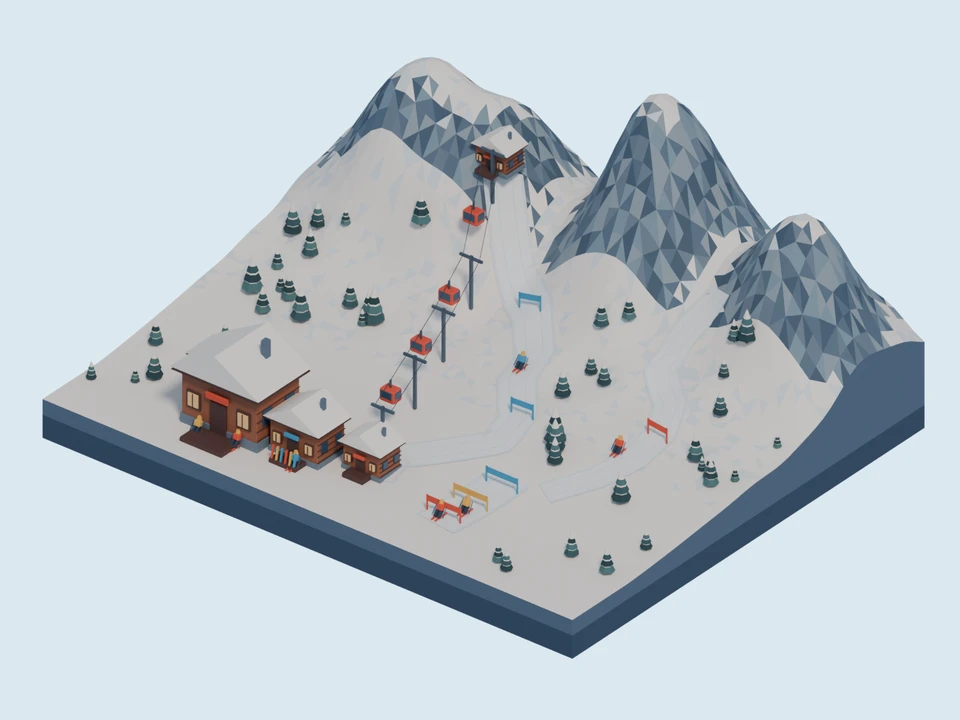
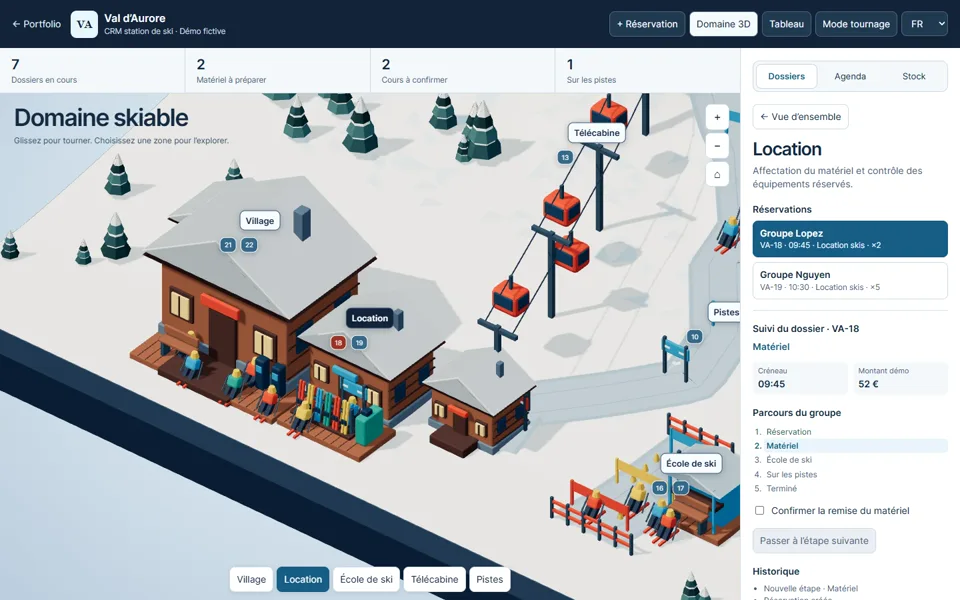
Actualiser le lien et le visuel de Val d-Aurore

diff --git a/index.html b/index.html
@@ -187,12 +187,12 @@
       <ul class="home-crm-demos">
         <li><a href="https://odilonbuisson.com/demos/crm-carrosserie/index.html">Carrosserie <span aria-hidden="true">↗</span></a></li>
         <li><a href="https://odilonbuisson.com/demos/crm-salle-de-sport/index.html">Salle de sport <span aria-hidden="true">↗</span></a></li>
-        <li><a href="https://odilonbuisson.com/demos/crm-station-ski/index.html">Station de ski <span aria-hidden="true">↗</span></a></li>
+        <li><a href="https://val-d-aurore.vercel.app/">Station de ski <span aria-hidden="true">↗</span></a></li>
       </ul>
       <a class="home-text-link" href="https://odilonbuisson.com/projets/crm-3d-interactifs">Voir l’étude sur le portfolio d’Odilon Buisson <span aria-hidden="true">↗</span></a>
     </div>
     <figure class="home-crm-preview">
-      <img src="/images/home/val-aurore.webp" width="960" height="720" alt="Aperçu du CRM 3D de la station Val d’Aurore et de ses pistes" loading="lazy" />
+      <img src="/images/home/val-aurore.webp" width="960" height="600" alt="Aperçu du CRM 3D de la station Val d’Aurore et de ses pistes" loading="lazy" />
       <figcaption>Démo Val d’Aurore, station de ski modélisée dans Blender.</figcaption>
     </figure>
   </div>

diff --git a/zh/index.html b/zh/index.html
@@ -189,12 +189,12 @@
       <ul class="home-crm-demos">
         <li><a href="https://odilonbuisson.com/demos/crm-carrosserie/en.html">汽车维修 <span aria-hidden="true">↗</span></a></li>
         <li><a href="https://odilonbuisson.com/demos/crm-salle-de-sport/en.html">健身房 <span aria-hidden="true">↗</span></a></li>
-        <li><a href="https://odilonbuisson.com/demos/crm-station-ski/index.html?lang=zh">滑雪场 <span aria-hidden="true">↗</span></a></li>
+        <li><a href="https://val-d-aurore.vercel.app/?lang=zh">滑雪场 <span aria-hidden="true">↗</span></a></li>
       </ul>
       <a class="home-text-link" href="https://odilonbuisson.com/zh/projects/crm-3d-interactifs">在 Odilon Buisson 的作品集中阅读案例 <span aria-hidden="true">↗</span></a>
     </div>
     <figure class="home-crm-preview">
-      <img src="/images/home/val-aurore.webp" width="960" height="720" alt="Val d’Aurore 滑雪场的 3D 客户管理系统和雪道预览" loading="lazy" />
+      <img src="/images/home/val-aurore.webp" width="960" height="600" alt="Val d’Aurore 滑雪场的 3D 客户管理系统和雪道预览" loading="lazy" />
       <figcaption>Val d’Aurore 滑雪场演示，场景使用 Blender 建模。</figcaption>
     </figure>
   </div>

diff --git a/en/index.html b/en/index.html
@@ -189,12 +189,12 @@
       <ul class="home-crm-demos">
         <li><a href="https://odilonbuisson.com/demos/crm-carrosserie/en.html">Body shop <span aria-hidden="true">↗</span></a></li>
         <li><a href="https://odilonbuisson.com/demos/crm-salle-de-sport/en.html">Gym <span aria-hidden="true">↗</span></a></li>
-        <li><a href="https://odilonbuisson.com/demos/crm-station-ski/index.html?lang=en">Ski resort <span aria-hidden="true">↗</span></a></li>
+        <li><a href="https://val-d-aurore.vercel.app/?lang=en">Ski resort <span aria-hidden="true">↗</span></a></li>
       </ul>
       <a class="home-text-link" href="https://odilonbuisson.com/en/projects/crm-3d-interactifs">Read the case study on Odilon Buisson’s portfolio <span aria-hidden="true">↗</span></a>
     </div>
     <figure class="home-crm-preview">
-      <img src="/images/home/val-aurore.webp" width="960" height="720" alt="Preview of the Val d’Aurore ski resort’s 3D CRM and slopes" loading="lazy" />
+      <img src="/images/home/val-aurore.webp" width="960" height="600" alt="Preview of the Val d’Aurore ski resort’s 3D CRM and slopes" loading="lazy" />
       <figcaption>Val d’Aurore ski resort demo, modelled in Blender.</figcaption>
     </figure>
   </div>

diff --git a/css/home.css b/css/home.css
@@ -98,7 +98,7 @@
 .home-crm-demos a { display: block; padding: 5px 10px; border: 1px solid #b5c8be; font-weight: 700; font-size: .9rem; }
 .home-crm-demos a:hover { background: var(--accent); border-color: var(--accent); color: var(--ink); }
 .home-crm .home-text-link { color: #ffea72; }
-.home-crm-preview img { width: 100%; height: auto; aspect-ratio: 4 / 3; object-fit: cover; border: 2px solid #c7d5c9; background: #244f43; }
+.home-crm-preview img { width: 100%; height: auto; aspect-ratio: 8 / 5; object-fit: cover; border: 2px solid #c7d5c9; background: #244f43; }
 .home-crm-preview figcaption { margin-top: 8px; color: #dce9df; font-size: .84rem; }
 
 .home-chat {
